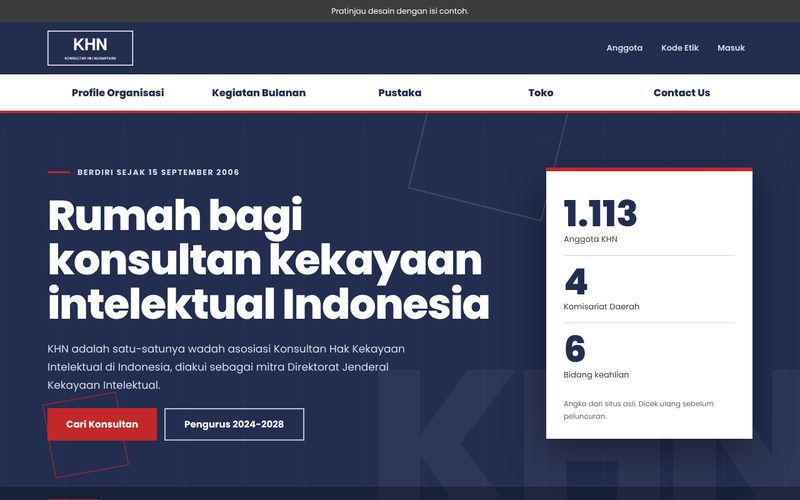
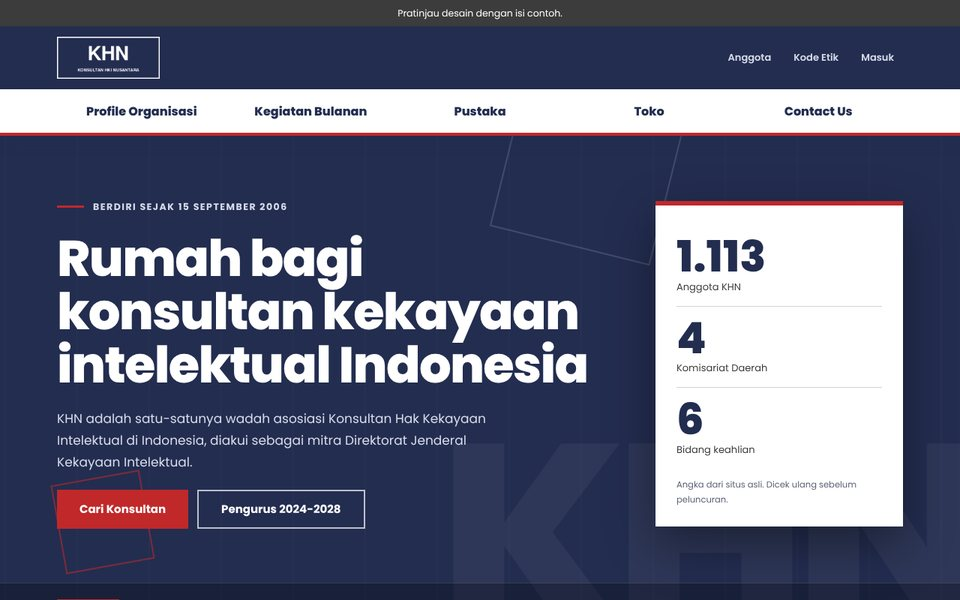
Use real local screenshots for all example previews
Claude-Session: https://claude.ai/code/session_01TXhGFKrwsqfvCcSRgagSPs

diff --git a/src/content.js b/src/content.js
@@ -51,42 +51,42 @@ export const projects = [
     title: 'Lumenify',
     kind: 'Website portofolio dan tim',
     text: 'Website profesional untuk menampilkan portofolio dan tim.',
-    image: 'https://image.thum.io/get/width/800/crop/500/noanimate/https://lumenify.id',
+    image: '/previews/lumenify.jpg',
     url: 'https://lumenify.id',
   },
   {
     title: 'Farrel Alfarabi Saleh',
     kind: 'Website portofolio pribadi',
     text: 'Portofolio strategi pemasaran dan business intelligence.',
-    image: 'https://image.thum.io/get/width/800/crop/500/noanimate/https://www.farrelalfarabisaleh.my.id',
+    image: '/previews/farrelsaleh.jpg',
     url: 'https://www.farrelalfarabisaleh.my.id',
   },
   {
     title: 'Farrel Alfarabi (Creative Developer)',
     kind: 'Website portofolio dengan animasi',
     text: 'Portofolio dengan adegan WebGL, grafis real-time, dan studi kasus.',
-    image: 'https://image.thum.io/get/width/800/crop/500/noanimate/https://farrelportfolio.netlify.app',
+    image: '/previews/farrelcreative.jpg',
     url: 'https://farrelportfolio.netlify.app',
   },
   {
     title: 'Nabila Siregar',
     kind: 'Website portofolio',
     text: 'Portofolio brand dan pemasaran.',
-    image: 'https://image.thum.io/get/width/800/crop/500/noanimate/https://nabila-site-drab.vercel.app',
+    image: '/previews/nabila.jpg',
     url: 'https://nabila-site-drab.vercel.app',
   },
   {
     title: 'Faishal Zuhair',
     kind: 'Website portofolio',
     text: 'Portofolio konsultan bisnis dan strategi pemasaran.',
-    image: 'https://image.thum.io/get/width/800/crop/500/noanimate/https://faishal-portofolio-five.vercel.app',
+    image: '/previews/faishal.jpg',
     url: 'https://faishal-portofolio-five.vercel.app',
   },
   {
     title: 'Thomas Raditya',
     kind: 'Website portofolio',
     text: 'Portofolio pemasaran dan branding.',
-    image: 'https://image.thum.io/get/width/800/crop/500/noanimate/https://thomas-portfolio-five.vercel.app',
+    image: '/previews/thomas.jpg',
     url: 'https://thomas-portfolio-five.vercel.app',
   },
   {
